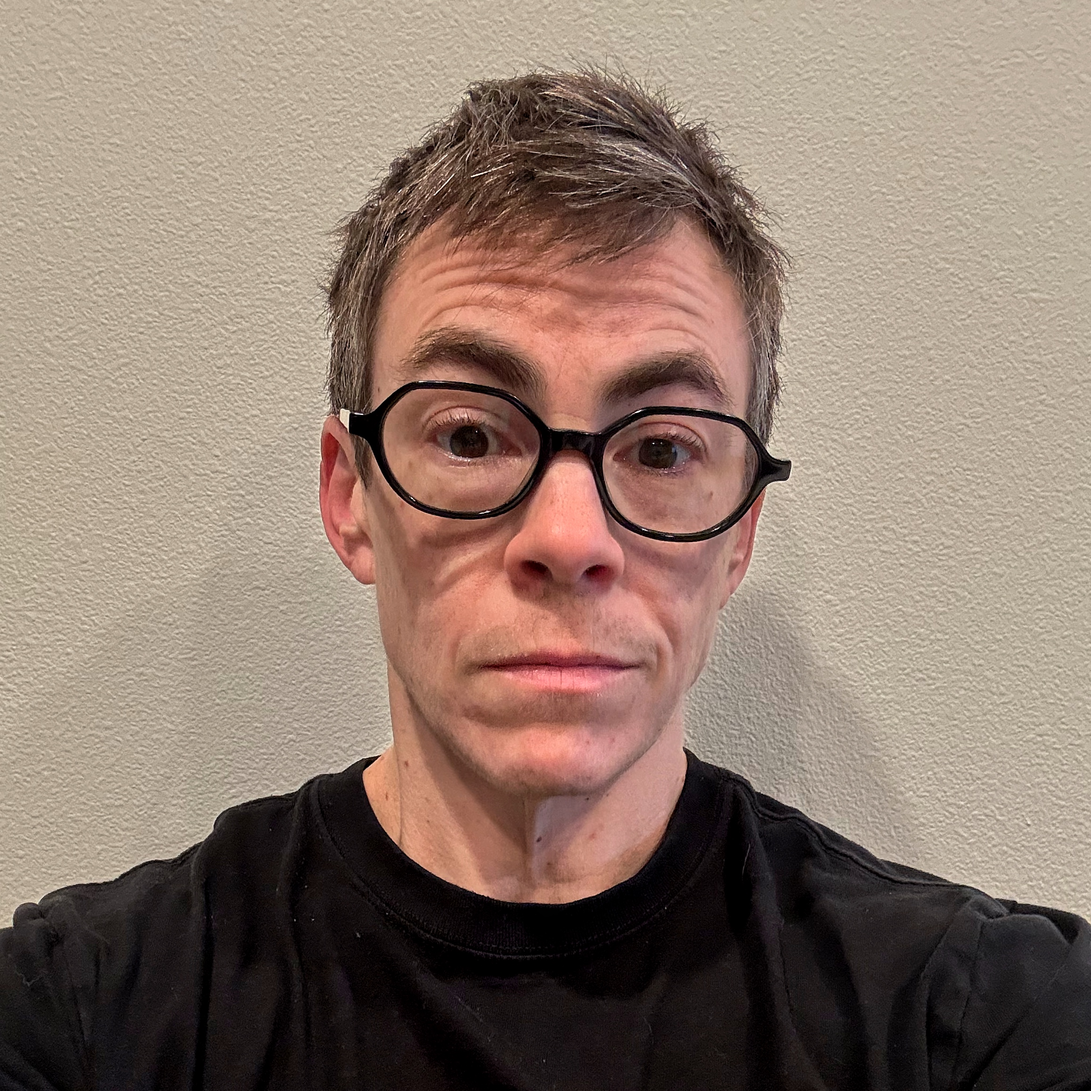
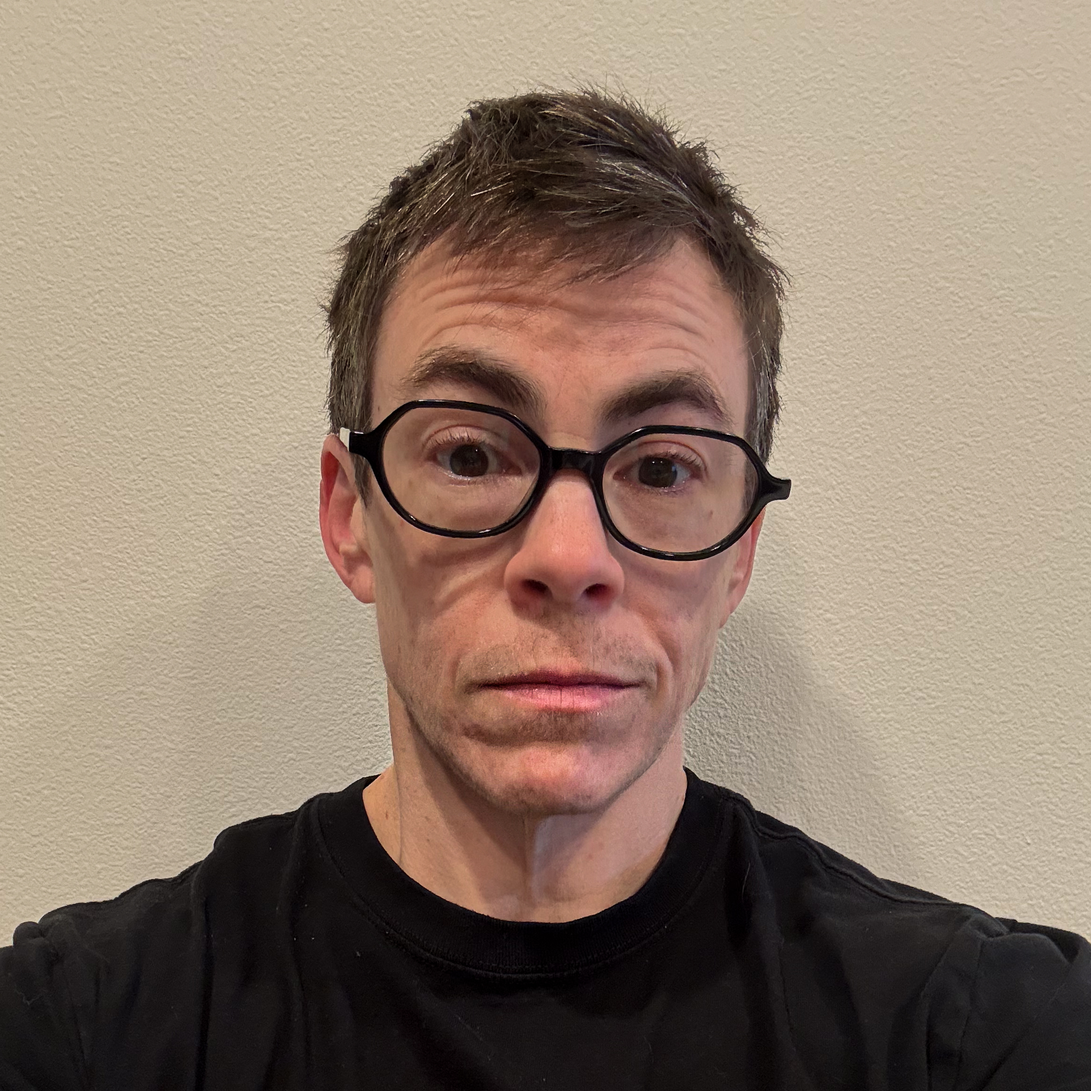
lots of css tweaks to blog post sutf

diff --git a/src/styles/blogpost.css b/src/styles/blogpost.css
@@ -1,36 +1,42 @@
+.tag {
+    font-size: var(--text-xs);
+    font-family: var(--font-mono);
+    color: var(--text-secondary);
+
+    text-decoration: none;
+
+    border: 1px solid var(--border);
+    border-radius: 4px;
+    padding: 0 var(--size-2);
+
+    a,
+    a:hover,
+    a:focus {
+        text-decoration: none;
+    }
+}
+
+.post-heading {
+    margin-block-end: var(--size-2);
+}
+
+.post-header {
+    margin-block: var(--size-10);
+}
+
 .post-card {
     margin-block-start: var(--size-8);
     margin-block-end: var(--size-10);
 }
 
 .post-date {
-    font-size: var(--font-size-1);
+    font-size: var(--text-s);
     color: var(--text-secondary);
-    /* margin-inline: var(--size-1); */
-    display: flex;
-    align-items: center;
-    gap: var(--size-1);
-}
-
-.post-tags {
-    font-size: var(--font-size-1);
-    color: var(--text-secondary);
-    /* margin-inline: var(--size-1); */
-    display: flex;
-    flex-wrap: wrap;
-    align-items: center;
-    gap: var(--size-1);
-}
-
-.post-tags a {
-    margin-inline: 0.15em;
-    text-decoration: none;
-    color: inherit;
 }
 
 .post-tags a:hover,
 a:focus {
-    color: var(--brand-primary);
+    text-decoration: none;
 }
 
 .post-metadata {
@@ -38,18 +44,7 @@ a:focus {
     flex-direction: row;
     flex-wrap: wrap;
     align-items: center;
-    gap: var(--size-7);
-    margin-block-start: var(--size-3);
+    gap: var(--size-2);
+    margin-block-start: var(--size-1);
     margin-block-end: var(--size-4);
-}
-
-.post-heading {
-    margin-block-start: 0;
-}
-.post-heading h1 {
-    margin-block-end: 0;
-}
-
-.post-header {
-    margin-block: var(--size-10);
 }

diff --git a/src/styles/colors.css b/src/styles/colors.css
@@ -81,6 +81,7 @@
         --accent-secondary: var(--accent-secondary-light);
         --background-primary: var(--background-primary-light);
         --background-secondary: var(--background-secondary-light);
+        --surface: var(--surface-light);
         --text-primary: var(--text-primary-light);
         --text-secondary: var(--text-secondary-light);
         --border: var(--border-light);
@@ -95,6 +96,7 @@
         --accent-secondary: var(--accent-secondary-dark);
         --background-primary: var(--background-primary-dark);
         --background-secondary: var(--background-secondary-dark);
+        --surface: var(--surface-dark);
         --text-primary: var(--text-primary-dark);
         --text-secondary: var(--text-secondary-dark);
         --border: var(--border-dark);

diff --git a/src/styles/nav.css b/src/styles/nav.css
@@ -13,6 +13,8 @@ footer {
     padding-block: var(--size-10);
 }
 
+
+
 nav {
     display: flex;
     flex-wrap: wrap;

diff --git a/src/styles/prose.css b/src/styles/prose.css
@@ -1,4 +1,5 @@
 h1 {
+    margin-block-start: 180px;
     margin-block-end: var(--size-7);
 }
 
